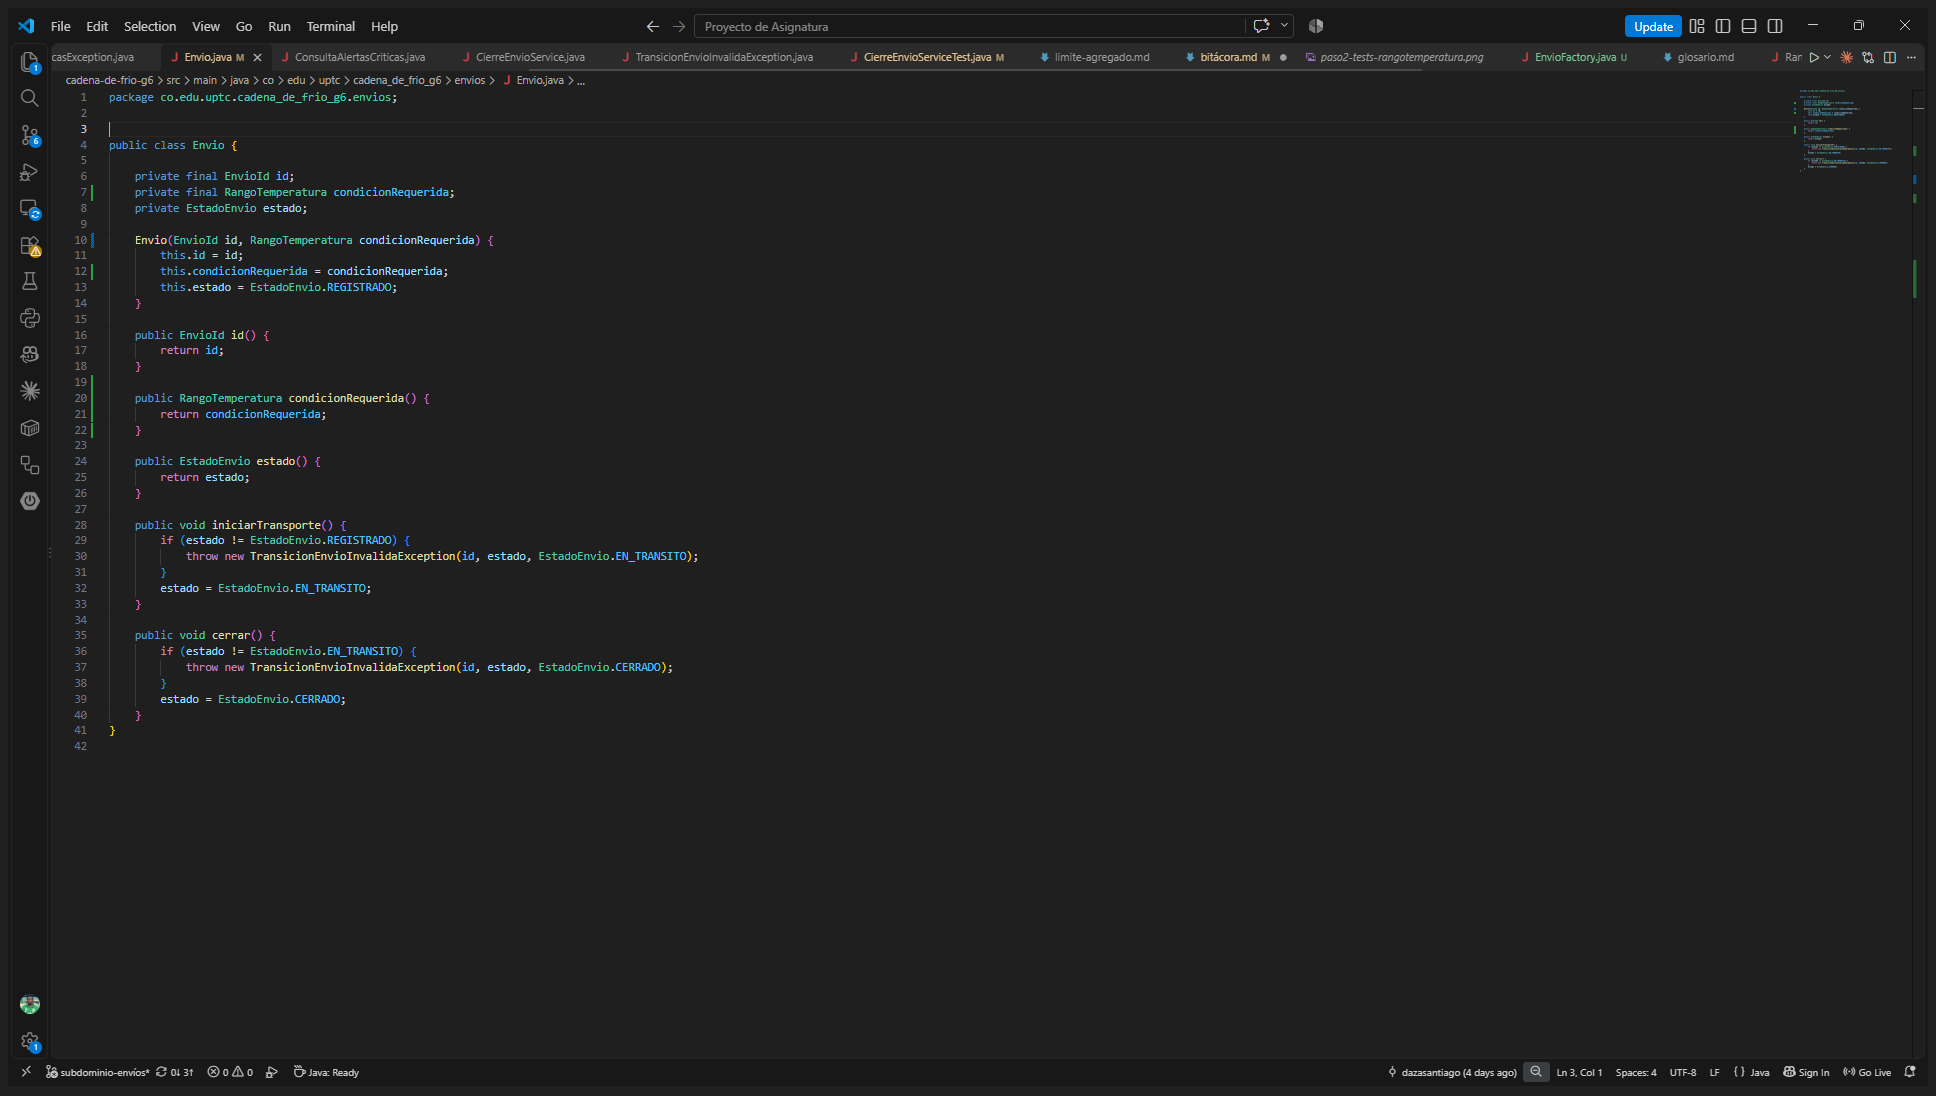
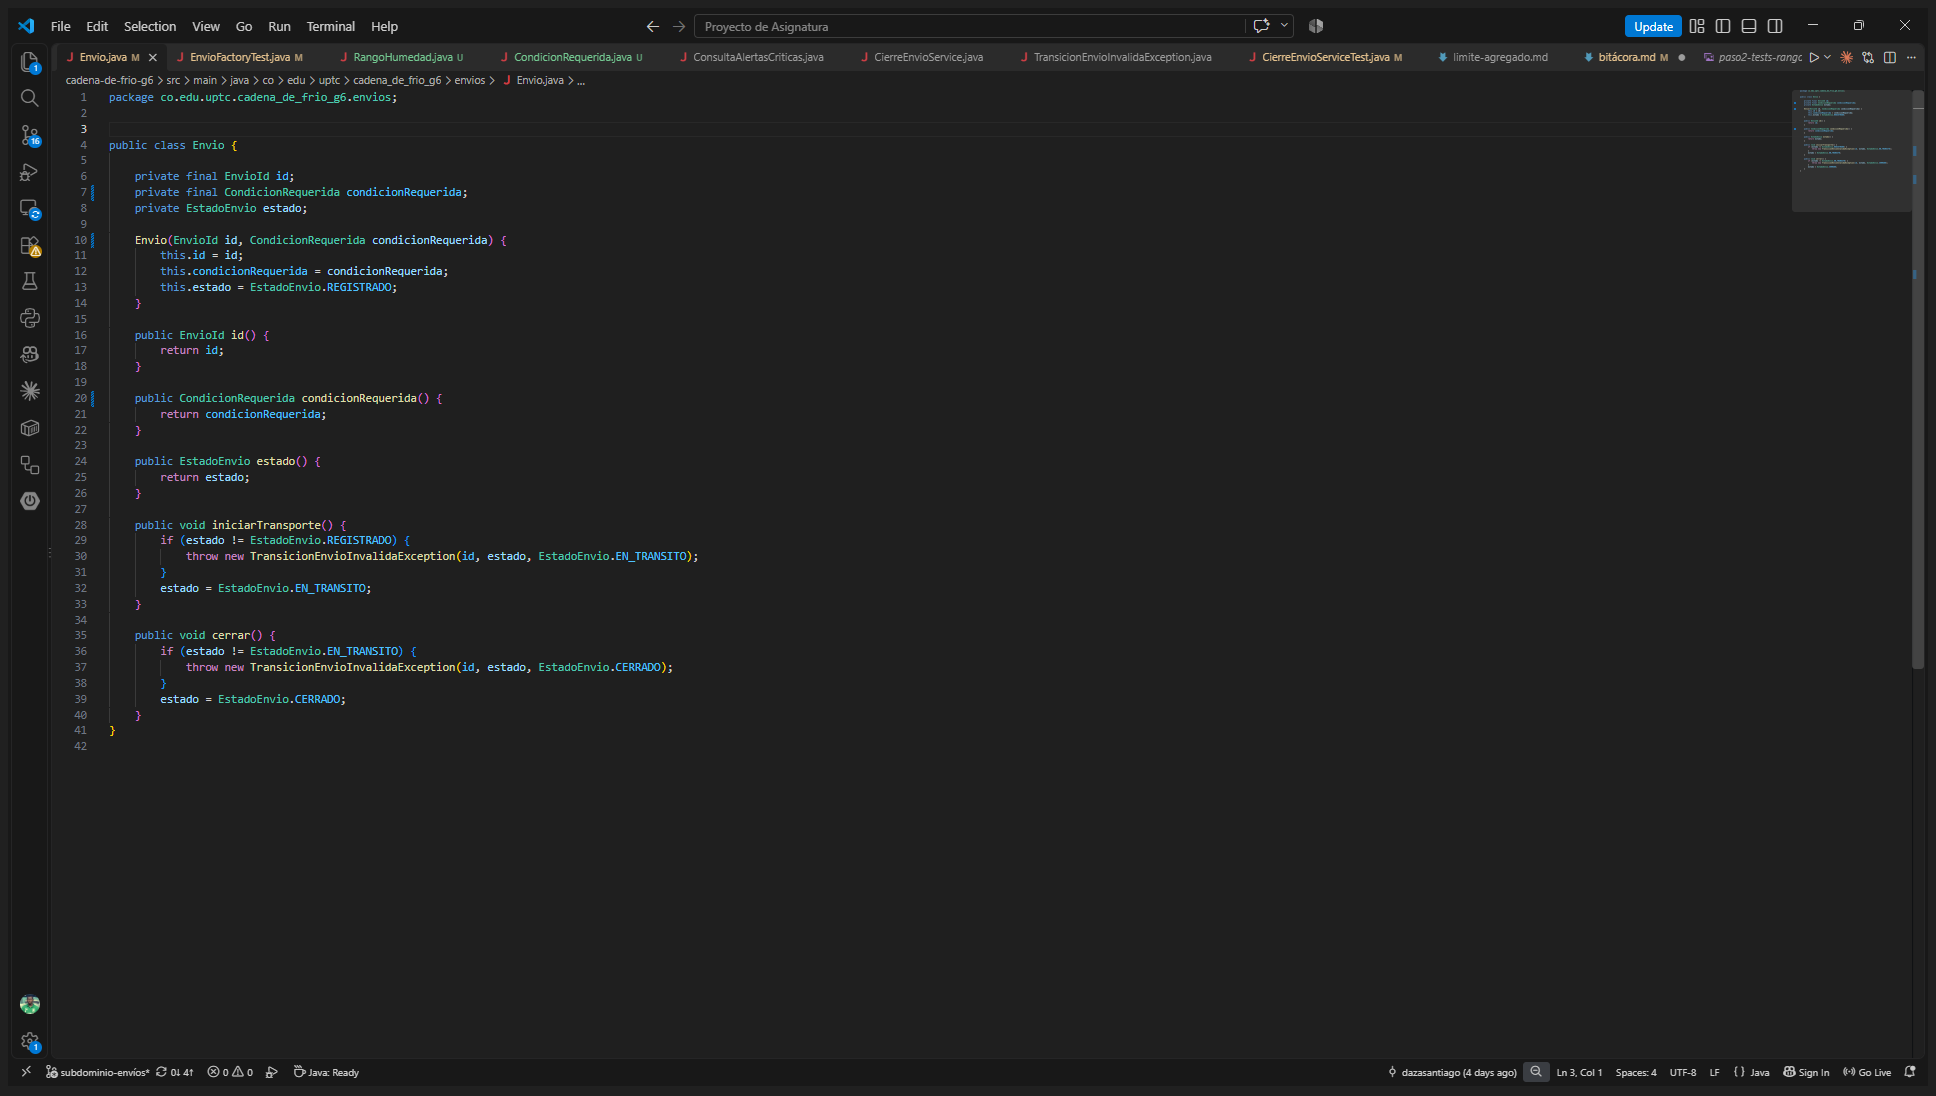
feat(envios): rango de humedad y condicion requerida completa
- RangoHumedad: Value Object para el porcentaje de humedad (0-100, minimo < maximo)
- CondicionRequerida: agrupa RangoTemperatura + RangoHumedad, resuelve el pendiente del glosario
- EnvioFactory.crear(...) y Envio actualizados para construir/guardar la condicion completa
- GlobalExceptionHandler: nuevo manejador para RangoHumedadInvalidoException (400)
- Tests actualizados (CierreEnvioServiceTest, EnvioFactoryTest) y nuevos (RangoHumedadTest)
- Capturas de evidencia del paso 5 y actualizacion del glosario y la bitacora

diff --git a/cadena-de-frio-g6/src/main/java/co/edu/uptc/cadena_de_frio_g6/envios/RangoHumedad.java b/cadena-de-frio-g6/src/main/java/co/edu/uptc/cadena_de_frio_g6/envios/RangoHumedad.java
@@ -1,0 +1,28 @@
+package co.edu.uptc.cadena_de_frio_g6.envios;
+
+/**
+ * Rango de humedad relativa, en porcentaje (0–100), que debe mantenerse durante el transporte.
+ * Es un Value Object: se define solo por sus valores y es inmutable.
+ */
+public record RangoHumedad(double minimo, double maximo) {
+
+    public RangoHumedad {
+        if (!Double.isFinite(minimo) || !Double.isFinite(maximo)) {
+            throw new RangoHumedadInvalidoException(
+                    "La humedad mínima (" + minimo + ") y la máxima (" + maximo + ") deben ser valores numéricos finitos");
+        }
+        if (minimo < 0 || maximo > 100) {
+            throw new RangoHumedadInvalidoException(
+                    "La humedad debe estar entre 0 y 100 (recibido: " + minimo + " a " + maximo + ")");
+        }
+        if (minimo >= maximo) {
+            throw new RangoHumedadInvalidoException(
+                    "La humedad mínima (" + minimo + ") debe ser menor que la máxima (" + maximo + ")");
+        }
+    }
+
+    /** Indica si la humedad dada cumple el rango; los extremos son válidos. */
+    public boolean contiene(double humedad) {
+        return humedad >= minimo && humedad <= maximo;
+    }
+}

diff --git a/cadena-de-frio-g6/src/test/java/co/edu/uptc/cadena_de_frio_g6/envios/EnvioFactoryTest.java b/cadena-de-frio-g6/src/test/java/co/edu/uptc/cadena_de_frio_g6/envios/EnvioFactoryTest.java
@@ -11,16 +11,23 @@ class EnvioFactoryTest {
 
     @Test
     void creaUnEnvioRegistradoConSuCondicionRequerida() {
-        Envio envio = factory.crear("ENV-001", 2.0, 8.0);
+        Envio envio = factory.crear("ENV-001", 2.0, 8.0, 60.0, 80.0);
 
         assertThat(envio.id()).isEqualTo(new EnvioId("ENV-001"));
-        assertThat(envio.condicionRequerida()).isEqualTo(new RangoTemperatura(2.0, 8.0));
+        assertThat(envio.condicionRequerida()).isEqualTo(new CondicionRequerida(
+                new RangoTemperatura(2.0, 8.0), new RangoHumedad(60.0, 80.0)));
         assertThat(envio.estado()).isEqualTo(EstadoEnvio.REGISTRADO);
     }
 
     @Test
-    void noCreaUnEnvioConCondicionInvalida() {
-        assertThatThrownBy(() -> factory.crear("ENV-001", 8.0, 2.0))
+    void noCreaUnEnvioConTemperaturaInvalida() {
+        assertThatThrownBy(() -> factory.crear("ENV-001", 8.0, 2.0, 60.0, 80.0))
                 .isInstanceOf(RangoInvertidoException.class);
+    }
+
+    @Test
+    void noCreaUnEnvioConHumedadInvalida() {
+        assertThatThrownBy(() -> factory.crear("ENV-001", 2.0, 8.0, 60.0, 120.0))
+                .isInstanceOf(RangoHumedadInvalidoException.class);
     }
 }

diff --git a/cadena-de-frio-g6/src/test/java/co/edu/uptc/cadena_de_frio_g6/compartido/GlobalExceptionHandlerTest.java b/cadena-de-frio-g6/src/test/java/co/edu/uptc/cadena_de_frio_g6/compartido/GlobalExceptionHandlerTest.java
@@ -7,6 +7,7 @@ import java.util.Map;
 import co.edu.uptc.cadena_de_frio_g6.envios.EnvioConAlertasCriticasException;
 import co.edu.uptc.cadena_de_frio_g6.envios.EnvioId;
 import co.edu.uptc.cadena_de_frio_g6.envios.EstadoEnvio;
+import co.edu.uptc.cadena_de_frio_g6.envios.RangoHumedadInvalidoException;
 import co.edu.uptc.cadena_de_frio_g6.envios.RangoInvertidoException;
 import co.edu.uptc.cadena_de_frio_g6.envios.RangoSinAmplitudException;
 import co.edu.uptc.cadena_de_frio_g6.envios.TemperaturaNoFinitaException;
@@ -42,6 +43,15 @@ class GlobalExceptionHandlerTest {
         RangoSinAmplitudException ex = new RangoSinAmplitudException(5.0);
 
         ResponseEntity<Map<String, Object>> respuesta = handler.manejarRangoSinAmplitud(ex);
+
+        verificar400(respuesta, ex.getMessage());
+    }
+
+    @Test
+    void traduceRangoHumedadInvalidoAUn400ConSuMensaje() {
+        RangoHumedadInvalidoException ex = new RangoHumedadInvalidoException("humedad fuera de rango");
+
+        ResponseEntity<Map<String, Object>> respuesta = handler.manejarRangoHumedadInvalido(ex);
 
         verificar400(respuesta, ex.getMessage());
     }

diff --git a/cadena-de-frio-g6/src/main/java/co/edu/uptc/cadena_de_frio_g6/compartido/GlobalExceptionHandler.java b/cadena-de-frio-g6/src/main/java/co/edu/uptc/cadena_de_frio_g6/compartido/GlobalExceptionHandler.java
@@ -5,6 +5,7 @@ import java.util.LinkedHashMap;
 import java.util.Map;
 
 import co.edu.uptc.cadena_de_frio_g6.envios.EnvioConAlertasCriticasException;
+import co.edu.uptc.cadena_de_frio_g6.envios.RangoHumedadInvalidoException;
 import co.edu.uptc.cadena_de_frio_g6.envios.RangoInvertidoException;
 import co.edu.uptc.cadena_de_frio_g6.envios.RangoSinAmplitudException;
 import co.edu.uptc.cadena_de_frio_g6.envios.TemperaturaNoFinitaException;
@@ -30,6 +31,11 @@ public class GlobalExceptionHandler {
 
     @ExceptionHandler(RangoSinAmplitudException.class)
     public ResponseEntity<Map<String, Object>> manejarRangoSinAmplitud(RangoSinAmplitudException ex) {
+        return construirRespuesta(HttpStatus.BAD_REQUEST, ex.getMessage());
+    }
+
+    @ExceptionHandler(RangoHumedadInvalidoException.class)
+    public ResponseEntity<Map<String, Object>> manejarRangoHumedadInvalido(RangoHumedadInvalidoException ex) {
         return construirRespuesta(HttpStatus.BAD_REQUEST, ex.getMessage());
     }
 

diff --git a/cadena-de-frio-g6/src/test/java/co/edu/uptc/cadena_de_frio_g6/envios/RangoHumedadTest.java b/cadena-de-frio-g6/src/test/java/co/edu/uptc/cadena_de_frio_g6/envios/RangoHumedadTest.java
@@ -1,0 +1,28 @@
+package co.edu.uptc.cadena_de_frio_g6.envios;
+
+import static org.assertj.core.api.Assertions.assertThat;
+import static org.assertj.core.api.Assertions.assertThatThrownBy;
+
+import org.junit.jupiter.api.Test;
+
+class RangoHumedadTest {
+
+    @Test
+    void creaRangoValido() {
+        RangoHumedad rango = new RangoHumedad(60.0, 80.0);
+
+        assertThat(rango.contiene(70.0)).isTrue();
+    }
+
+    @Test
+    void rechazaValoresFueraDeCeroACien() {
+        assertThatThrownBy(() -> new RangoHumedad(60.0, 120.0))
+                .isInstanceOf(RangoHumedadInvalidoException.class);
+    }
+
+    @Test
+    void rechazaMinimoMayorOIgualQueMaximo() {
+        assertThatThrownBy(() -> new RangoHumedad(80.0, 60.0))
+                .isInstanceOf(RangoHumedadInvalidoException.class);
+    }
+}

diff --git a/cadena-de-frio-g6/src/test/java/co/edu/uptc/cadena_de_frio_g6/envios/CierreEnvioServiceTest.java b/cadena-de-frio-g6/src/test/java/co/edu/uptc/cadena_de_frio_g6/envios/CierreEnvioServiceTest.java
@@ -20,7 +20,7 @@ class CierreEnvioServiceTest {
     void preparar() {
         consultaAlertasCriticas = mock(ConsultaAlertasCriticas.class);
         service = new CierreEnvioService(consultaAlertasCriticas);
-        envio = envioFactory.crear("ENV-001", 2.0, 8.0);
+        envio = envioFactory.crear("ENV-001", 2.0, 8.0, 60.0, 80.0);
         envio.iniciarTransporte();
     }
 
@@ -45,7 +45,7 @@ class CierreEnvioServiceTest {
 
     @Test
     void noCierraUnEnvioQueNoEstaEnTransito() {
-        Envio registrado = envioFactory.crear("ENV-002", 2.0, 8.0);
+        Envio registrado = envioFactory.crear("ENV-002", 2.0, 8.0, 60.0, 80.0);
         when(consultaAlertasCriticas.tieneAlertasCriticasSinResolver(registrado.id())).thenReturn(false);
 
         assertThatThrownBy(() -> service.cerrar(registrado))

diff --git a/cadena-de-frio-g6/src/main/java/co/edu/uptc/cadena_de_frio_g6/envios/EnvioFactory.java b/cadena-de-frio-g6/src/main/java/co/edu/uptc/cadena_de_frio_g6/envios/EnvioFactory.java
@@ -6,9 +6,12 @@ package co.edu.uptc.cadena_de_frio_g6.envios;
  */
 public class EnvioFactory {
 
-    public Envio crear(String id, double temperaturaMinima, double temperaturaMaxima) {
+    public Envio crear(String id, double temperaturaMinima, double temperaturaMaxima,
+            double humedadMinima, double humedadMaxima) {
         EnvioId envioId = new EnvioId(id);
-        RangoTemperatura condicionRequerida = new RangoTemperatura(temperaturaMinima, temperaturaMaxima);
+        CondicionRequerida condicionRequerida = new CondicionRequerida(
+                new RangoTemperatura(temperaturaMinima, temperaturaMaxima),
+                new RangoHumedad(humedadMinima, humedadMaxima));
         return new Envio(envioId, condicionRequerida);
     }
 }

diff --git a/cadena-de-frio-g6/src/main/java/co/edu/uptc/cadena_de_frio_g6/envios/Envio.java b/cadena-de-frio-g6/src/main/java/co/edu/uptc/cadena_de_frio_g6/envios/Envio.java
@@ -4,10 +4,10 @@ package co.edu.uptc.cadena_de_frio_g6.envios;
 public class Envio {
 
     private final EnvioId id;
-    private final RangoTemperatura condicionRequerida;
+    private final CondicionRequerida condicionRequerida;
     private EstadoEnvio estado;
 
-    Envio(EnvioId id, RangoTemperatura condicionRequerida) {
+    Envio(EnvioId id, CondicionRequerida condicionRequerida) {
         this.id = id;
         this.condicionRequerida = condicionRequerida;
         this.estado = EstadoEnvio.REGISTRADO;
@@ -17,7 +17,7 @@ public class Envio {
         return id;
     }
 
-    public RangoTemperatura condicionRequerida() {
+    public CondicionRequerida condicionRequerida() {
         return condicionRequerida;
     }
 

diff --git a/cadena-de-frio-g6/src/main/java/co/edu/uptc/cadena_de_frio_g6/envios/CondicionRequerida.java b/cadena-de-frio-g6/src/main/java/co/edu/uptc/cadena_de_frio_g6/envios/CondicionRequerida.java
@@ -1,0 +1,14 @@
+package co.edu.uptc.cadena_de_frio_g6.envios;
+
+/**
+ * Lo que debe cumplirse durante todo el transporte: el rango de temperatura y el rango de humedad
+ * aceptables (HU-01). Es un Value Object; ambos componentes ya validan sus propios límites.
+ */
+public record CondicionRequerida(RangoTemperatura rangoTemperatura, RangoHumedad rangoHumedad) {
+
+    public CondicionRequerida {
+        if (rangoTemperatura == null || rangoHumedad == null) {
+            throw new IllegalArgumentException("La condición requerida necesita ambos rangos: temperatura y humedad");
+        }
+    }
+}

diff --git a/cadena-de-frio-g6/src/main/java/co/edu/uptc/cadena_de_frio_g6/envios/RangoHumedadInvalidoException.java b/cadena-de-frio-g6/src/main/java/co/edu/uptc/cadena_de_frio_g6/envios/RangoHumedadInvalidoException.java
@@ -1,0 +1,9 @@
+package co.edu.uptc.cadena_de_frio_g6.envios;
+
+/** La humedad mínima o máxima no es un porcentaje válido (fuera de 0–100, o mínimo ≥ máximo). */
+public class RangoHumedadInvalidoException extends RuntimeException {
+
+    public RangoHumedadInvalidoException(String mensaje) {
+        super(mensaje);
+    }
+}

diff --git a/evidencias/dev-1/glosario.md b/evidencias/dev-1/glosario.md
@@ -51,6 +51,10 @@ Estos conceptos existen en el sistema, pero pertenecen a otro Bounded Context. E
 Los términos marcados aquí no vienen literalmente de los requisitos; son supuestos míos para dejar el modelo coherente.
 
 - **`EnvioIniciado` / `iniciarTransporte()`** no aparece en `NOTAS-equipo.md`. Hace falta porque la regla 3 habla de "una vez iniciado el transporte". Habría que añadirlo a la lista de eventos del equipo.
-- **`RangoHumedad`** como Value Object separado de `RangoTemperatura`: HU-01 pide ambos rangos, pero el equipo solo nombró el de temperatura.
 - **`ResumenCumplimiento`**: los requisitos no dicen qué contiene. Su contenido depende de cómo se cruce con Alertas y Lecturas.
 - **`Incidente`** dentro o fuera del Agregado `Envio`: pendiente para el paso 4.
+
+## 6. Resuelto en el paso 5 (Factory)
+
+- **`RangoHumedad`**: ya existe como Value Object separado de `RangoTemperatura` (HU-01 pedía ambos rangos). Valida que esté entre 0 y 100 y que el mínimo sea menor que el máximo; lanza `RangoHumedadInvalidoException`.
+- **`CondicionRequerida`**: ya existe como Value Object que agrupa `RangoTemperatura` + `RangoHumedad`. Es lo que `EnvioFactory.crear(...)` construye y lo que guarda `Envio`.

diff --git a/evidencias/dev-1/bitácora.md b/evidencias/dev-1/bitácora.md
@@ -6,11 +6,11 @@ Registrar el tiempo **real** de cada paso y la fecha. Debe coincidir con el hist
 |---|---|---|---|---|
 | 1 · Lenguaje Ubicuo | ~20 min | 22 min | 2026-09-23 | b3ae526c6c35a5fda4363aef52d76d305b4be51f |
 | 2 · Value Object (`RangoTemperatura`) | ~45 min | 23 min | 2026-09-23 | 27acc71df2608b3f24267d4f944b60fcba5b0f04 |
-| 3 · Servicio de Dominio (`CierreEnvioService`) | ~35 min | | 2026-09-23 | |
-| 4 · Límite del Agregado | ~15 min | | 2026-09-23 | |
-| 5 · Factory (`EnvioFactory`) | ~35 min | | 2026-09-23 | |
+| 3 · Servicio de Dominio (`CierreEnvioService`) | ~35 min | 40 min | 2026-09-23 | 82564758029bafab1e18593ca137b852bcf23084 |
+| 4 · Límite del Agregado | ~15 min | 23 min | 2026-09-23 | e36ed19ea3807a906d6b7ea2313a11d484b6839e | 
+| 5 · Factory (`EnvioFactory`) | ~35 min | 34 min | 2026-09-23 | aa662866d47099ac271ad8a9321797516e5e9e2c |
 | 6 · Commit y Pull Request | ~5 min | | 2026-09-23 | |
 | **Total** | **~2 h 35 min** | | | |
-
+ 
 ## Observaciones
-
+Ninguna observación, en los puntos que tardaron más tiempo que el estimado, hubo errores de compilación a revisar.
